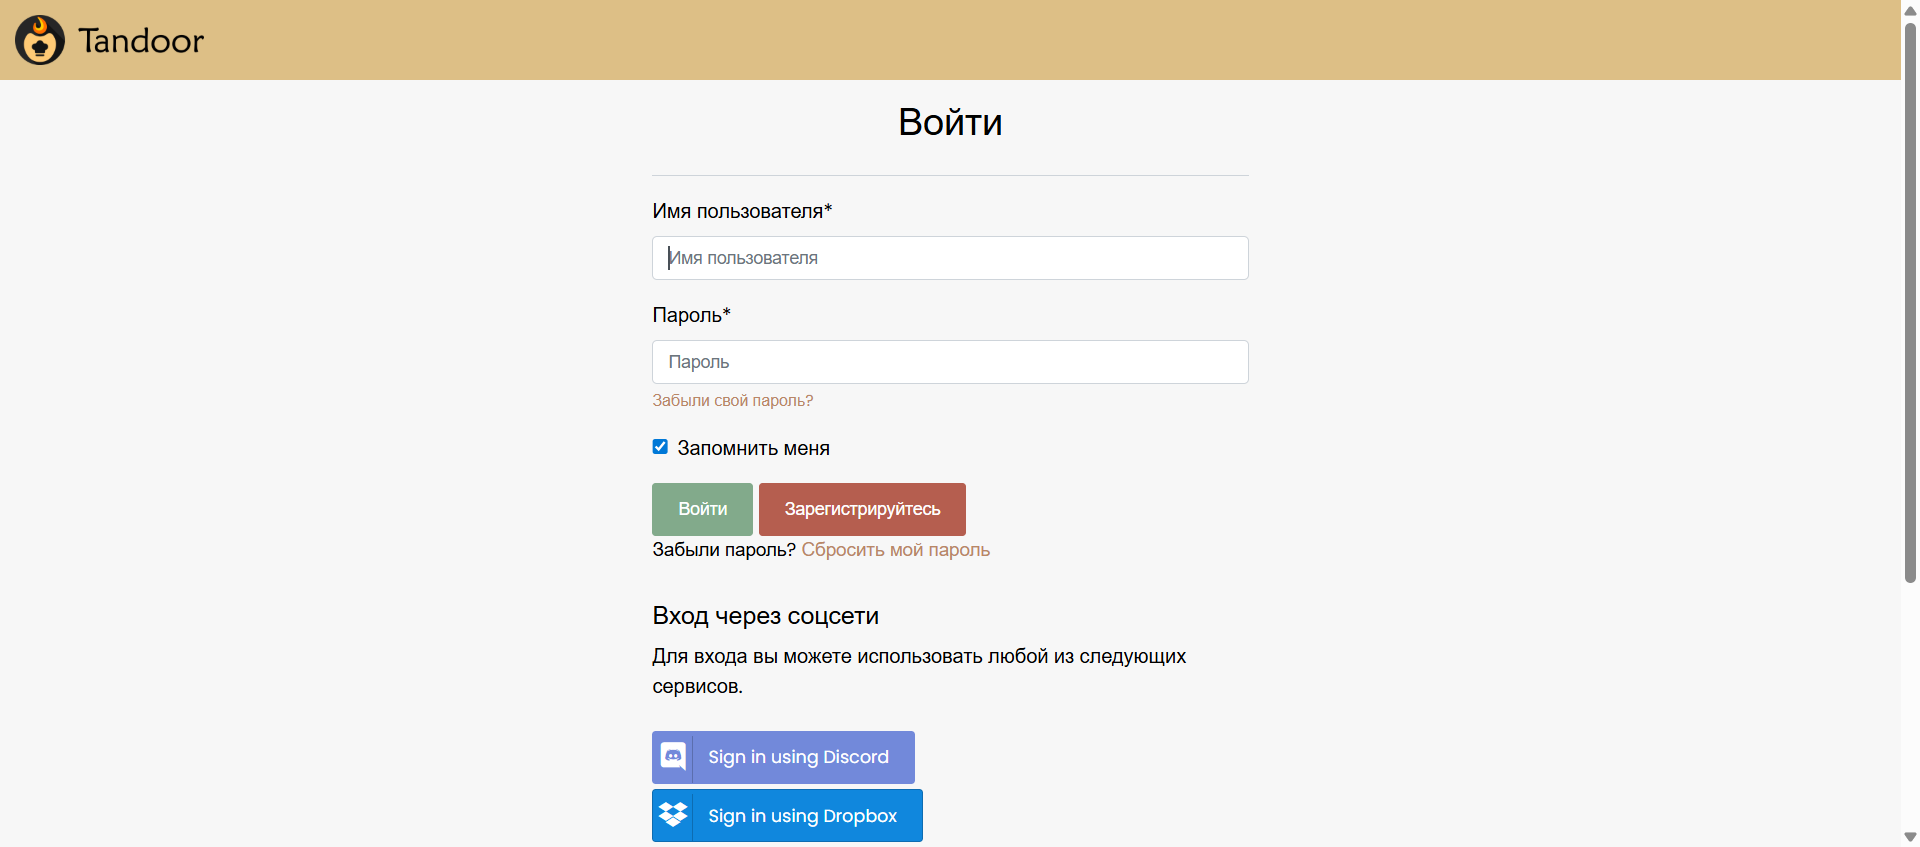
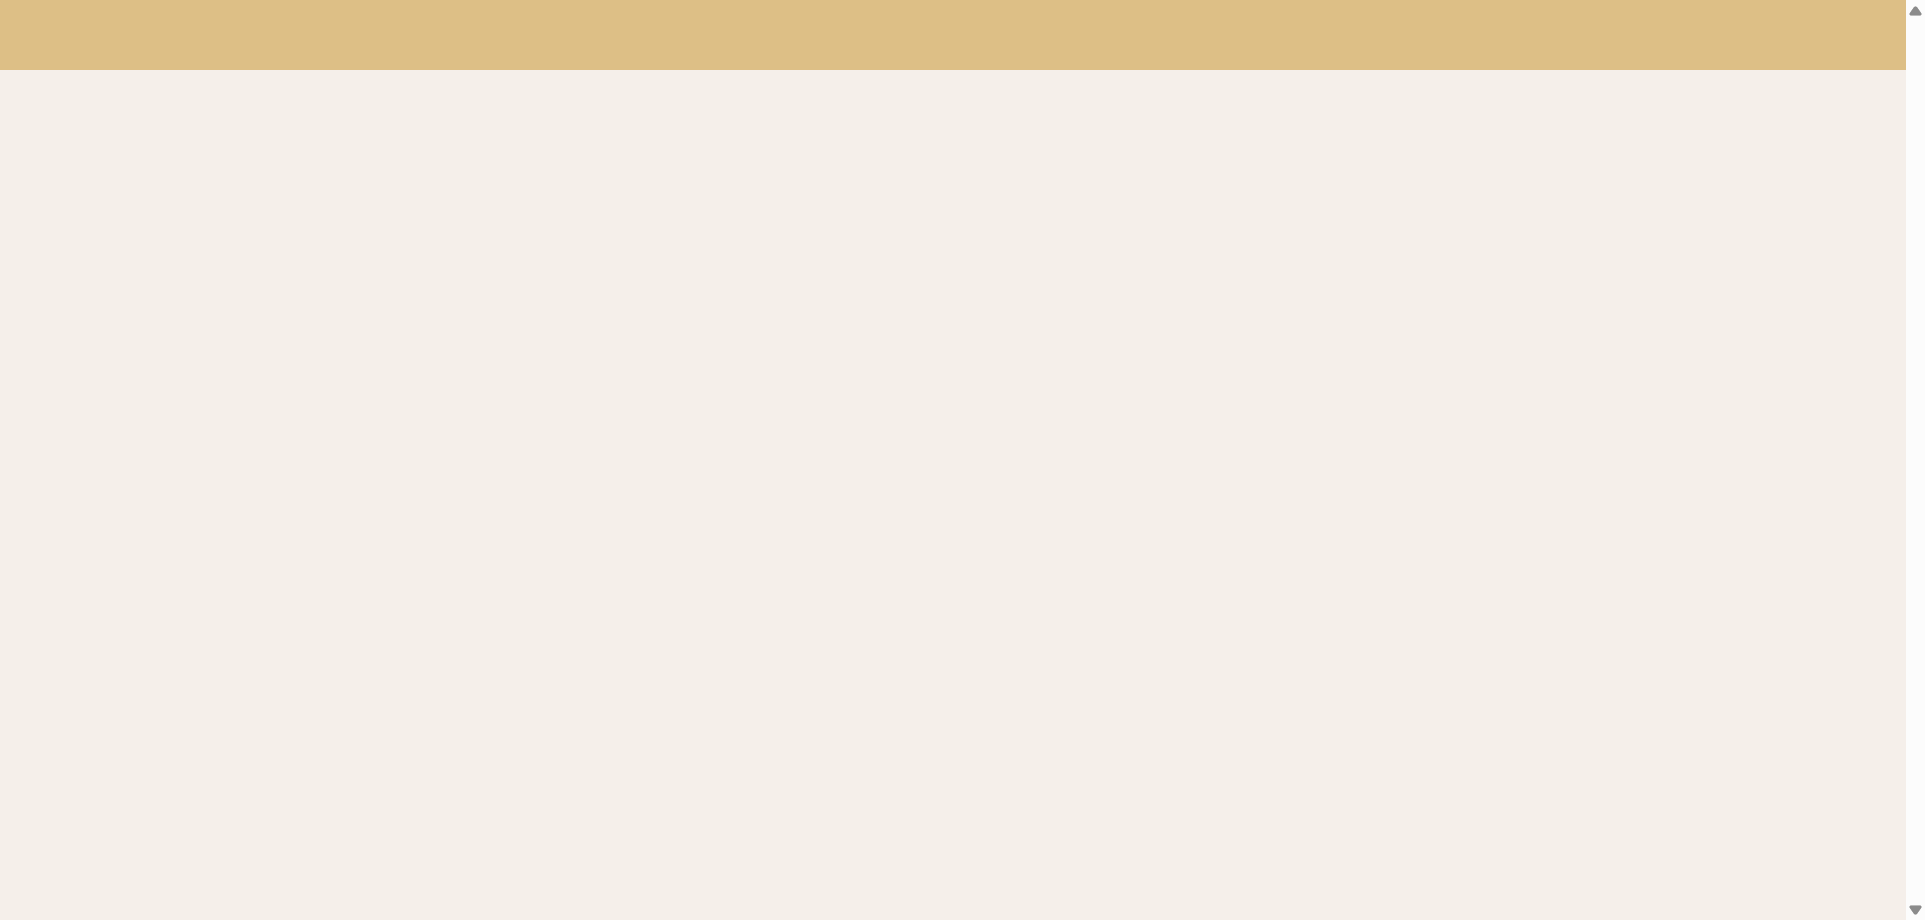
Final: implement clean screenshot hook, explicit UI assertions, and documented bug reports

diff --git a/tests/test_shopping.py b/tests/test_shopping.py
@@ -13,6 +13,7 @@ from pages.shopping_list_page import ShoppingListPage
 def test_shopping_list_full_cycle(driver, setup_auth):
     shopping_page = ShoppingListPage(driver)
     recipe_name = "Паста в аэрогриле"
+    ingredients = ["Макароны", "Помидоры"]
 
     with allure.step("Авторизация через Cookies"):
         driver.get("https://app.tandoor.dev")
@@ -32,17 +33,36 @@ def test_shopping_list_full_cycle(driver, setup_auth):
         with allure.step("Выбор списка в модальном окне и подтверждение"):
             shopping_page.select_dinner_list_and_confirm()
 
-        with allure.step(f"Проверка появления рецепта '{recipe_name}' в списке"):
-            # Ждем появления заголовка рецепта
-            locator = (By.XPATH, f"//*[contains(text(), '{recipe_name}')]")
-            WebDriverWait(driver, 15).until(EC.presence_of_element_located(locator))
 
-        with allure.step("Проверка наличия ингредиентов на странице"):
-            # Реальные ассерты вместо пустых проверок
-            assert "Макароны" in driver.page_source, "Ингредиент 'Макароны' не найден!"
-            assert "Помидоры" in driver.page_source, "Ингредиент 'Помидоры' не найден!"
+
+        with allure.step(f"Критическая проверка: появление рецепта '{recipe_name}' в списке"):
+
+            recipe_locator = (By.XPATH, f"//div[contains(@class, 'v-list-item')]//*[contains(., '{recipe_name}')]")
+
+
+            recipe_element = WebDriverWait(driver, 15).until(
+                EC.visibility_of_element_located(recipe_locator),
+                message=f"FAILED: Рецепт '{recipe_name}' не найден в Shopping List"
+            )
+
+            assert recipe_element.is_displayed(), "Рецепт присутствует в DOM, но не отображается"
+
+        with allure.step("Валидация состава ингредиентов"):
+            # Вместо поиска по всей странице (page_source), проверяем каждый ингредиент отдельно
+            for ing in ingredients:
+                with allure.step(f"Проверка ингредиента: {ing}"):
+                    ing_locator = (By.XPATH, f"//div[contains(@class, 'v-list-item')]//*[contains(., '{ing}')]")
+
+                    # Пытаемся найти конкретный элемент ингредиента
+                    element = WebDriverWait(driver, 10).until(
+                        EC.presence_of_element_located(ing_locator),
+                        message=f"ОШИБКА: Ингредиент '{ing}' не найден!"
+                    )
+
+                    assert element is not None, f"Объект ингредиента {ing} не проинициализирован"
+
+
 
     finally:
         with allure.step("Очистка данных: удаление рецепта из списка"):
-            # Этот блок выполнится даже если тест упадет на проверке
             shopping_page.delete_recipe()

diff --git a/conftest.py b/conftest.py
@@ -80,7 +80,7 @@ def setup_auth(driver):
     """Фикстура для авторизации и сохранения кук"""
     with allure.step("Авторизация и сохранение кук"):
         driver.get("https://app.tandoor.dev/accounts/login/")
-       
+
         driver.find_element(By.NAME, "username").send_keys("Riccoragazzo77")
         driver.find_element(By.NAME, "password").send_keys("Digitalnomadtravelaroundtheworld$$$")
         driver.find_element(By.XPATH, "//button[@type='submit']").click()
@@ -98,21 +98,21 @@ def setup_auth(driver):
 
 
 @pytest.hookimpl(tryfirst=True, hookwrapper=True)
-def pytest_runtest_makereport(item, call):
-    """Хук для скриншотов с исправленными отступами"""
+def pytest_runtest_makereport(item, _):
     outcome = yield
     report = outcome.get_result()
 
+    # Проверяем, что тест упал во время выполнения
     if report.when == 'call' and report.failed:
+
         driver = item.funcargs.get('driver')
+
         if driver:
+            # 1. Создаем папку, если её нет (нужен import os)
             if not os.path.exists('screenshots'):
                 os.makedirs('screenshots')
 
-            screenshot_path = f"screenshots/{item.name}.png"
-            driver.save_screenshot(screenshot_path)
-
-            # Прикрепление к Allure
+            # 2. Делаем скриншот напрямую в Allure (самое важное)
             allure.attach(
                 driver.get_screenshot_as_png(),
                 name=f"Screenshot_{item.name}",

diff --git a/api/client.py b/api/client.py
@@ -34,14 +34,14 @@ class TandoorAPIClient:
 
     # --- РЕЦЕПТЫ ---
     def get_all_recipes(self):
-        return self._make_request("GET", "recipe/recipes/")
+        return self._make_request("GET", "recipe/")
 
     def get_recipe_by_id(self, recipe_id):
-        return self._make_request("GET", f"recipe/recipes/{recipe_id}/")
+        return self._make_request("GET", f"recipe/{recipe_id}/")
 
     def import_recipe(self, recipe_url):
         """Импорт рецепта с обработкой дубликатов"""
-        endpoint = "recipe/recipe-from-source/"
+        endpoint = "recipe/-from-source/"
         data = {"url": recipe_url, "data": "", "bookmarklet": 0}
         response = self._make_request("POST", endpoint, data=data)
 
@@ -54,6 +54,11 @@ class TandoorAPIClient:
                 return recipe_id
         print(f"FAILURE | Не удалось получить ID для: {recipe_url}")
         return None
+
+    def delete_recipe(self, recipe_id):
+        """Удаление рецепта по ID через API"""
+        response = self.session.delete(f"{self.base_url}/api/recipe/{recipe_id}/")
+        return response
 
     # --- ПЛАН ПИТАНИЯ (MEAL PLAN) ---
     def create_meal_plan(self, recipe_id, date):

diff --git a/tests/test_api_client.py b/tests/test_api_client.py
@@ -52,9 +52,14 @@ def test_get_recipes_list_structure(api_client):
 
     with allure.step("Проверка наличия поля 'results' и типа данных"):
         data = response.json()
-        assert "results" in data, "Поле 'results' отсутствует"
-        assert isinstance(data["results"], list), "Результаты должны быть списком"
+        with allure.step("Проверка структуры ответа"):
+            # Проверяем, что это словарь (раз пришел dict)
+            assert isinstance(data, dict), f"Ожидался словарь с данными, но пришел {type(data)}"
 
+            # Ищем ключ, в котором лежат рецепты (обычно это 'results' или 'data')
+            target_key = "results"
+            assert target_key in data, f"Ключ '{target_key}' не найден в ответе. Ключи: {list(data.keys())}"
+            assert isinstance(data[target_key], list), "Список рецептов должен быть массивом"
 
 @allure.story("Recipe Creation")
 @allure.title("Проверка импорта рецепта по внешней ссылке")

diff --git a/tests/test_ui_meal_plan.py b/tests/test_ui_meal_plan.py
@@ -27,7 +27,7 @@ class TestMealPlanUI:
             # Ждем появления конкретного элемента с именем
             wait = WebDriverWait(driver, 10)
             user_element = wait.until(
-                EC.presence_of_element_with_text((By.XPATH, "//*[contains(text(), 'Vladislav Kochergin')]")))
+                EC.presence_of_element_located((By.XPATH, "//*[contains(text(), 'Vladislav Kochergin')]")))
             assert user_element.is_displayed(), "Имя пользователя не отображается на дашборде"
             assert "Vladislav" in driver.page_source, "Текст 'Vladislav' не найден в источнике страницы"
 
@@ -51,6 +51,6 @@ class TestMealPlanUI:
             meal_plan_page.add_plan_on_date(target_date, recipe_name)
 
         with allure.step("Проверка (Assert): отображается ли рецепт в плане"):
-            # Проверка через твой метод Page Object
+
             is_displayed = meal_plan_page.is_plan_displayed(target_date, recipe_name)
             assert is_displayed, f"План с рецептом '{recipe_name}' не найден на дату {target_date}!"

diff --git a/tests/generate_test_data.py b/tests/generate_test_data.py
@@ -5,7 +5,7 @@ import allure
 from api.client import TandoorAPIClient
 
 
[email redacted]  # Помечаем как API-инструмент
[email redacted]
 @allure.epic("Data Preparation")
 @allure.feature("ID Generation")
 def test_generate_ids_automated():